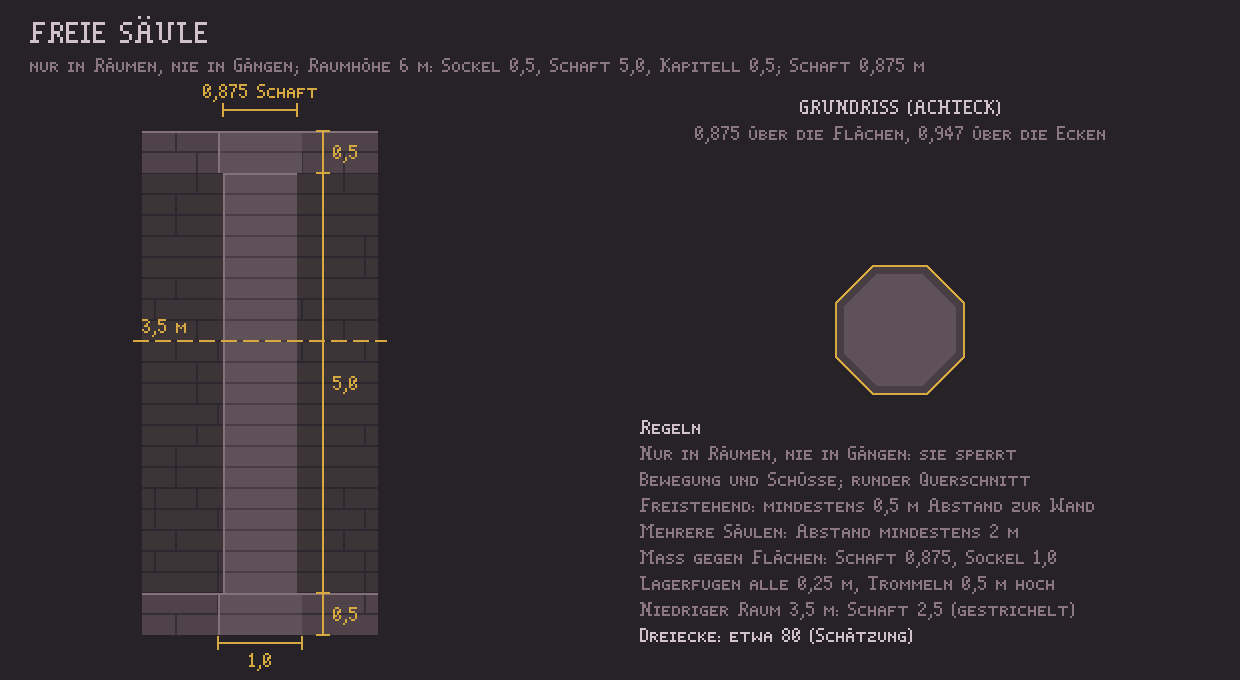
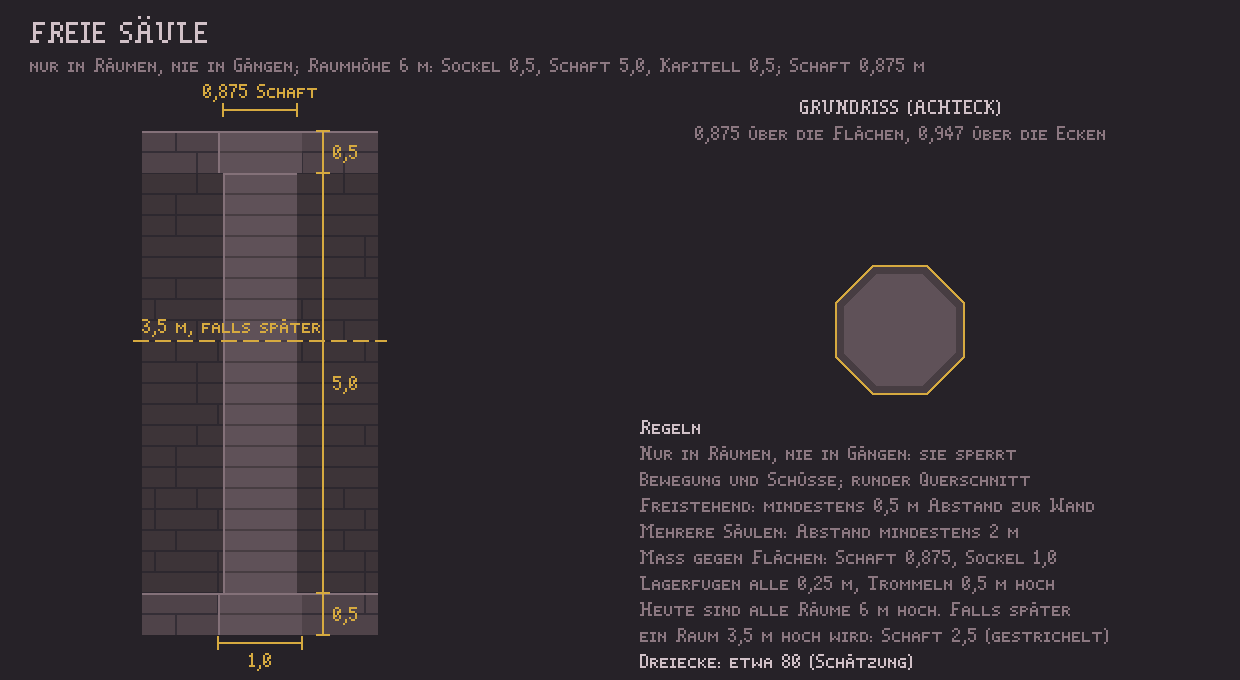
docs: Saeulen-Skizze und Dreieckszahl des Wandpfeilers angeglichen (#541)
Skizze der Saeule: 3,5-m-Raum nur noch "falls spaeter", wie im Text.
Wandpfeiler: gemessene 196 (Gang) und 238 (Raum) Dreiecke statt der
Schaetzung 40, weil die Flaechen fuer die Welt-Textur an den
Metergrenzen geteilt sind. Skizzen bitgleich neu erzeugt.

Changed region(s): [[0.521, 0.8647, 0.8887, 0.9882], [0.1532, 0.4632, 0.2758, 0.4941]]

diff --git a/tools/design/formenlehre_gotik.py b/tools/design/formenlehre_gotik.py
@@ -453,7 +453,7 @@ def wandpfeiler():
                         "Oben im Abschluss, Fuß im Sockel",
                         "#Im Gang (2 m breit): Sockel und Kapitell", "höchstens 1/8 m tief je Seite, lichte Breite", "bleibt 1,75 m (Türöffnung)",
                         "#Trägt der Pfeiler einen Bogen: Kapitell-", "Oberkante = Kämpfer des Bogens (Deckenbogen)",
-                        "#Dreiecke: etwa 40 (Schätzung)"], 24)
+                        "#Dreiecke: 196 (Gang), 238 (Raum)", "etwa 40 Flächen, an den Metergrenzen geteilt"], 24)
     return c
 
 
@@ -464,7 +464,7 @@ def saeule():
     for y0, y1, hw in ((0, 0.5, 0.5), (0.5, 5.5, 0.4375), (5.5, 6.0, 0.5)):
         stone_block(c, t, -hw, hw, y0, y1)
     c.dashed(t.x(-1.5), t.y(3.5), t.x(1.5), t.y(3.5), MASS, 2, 14, 8)
-    c.text(t.x(-1.4), t.y(3.5) - 22, "3,5 m", MASS, 2)
+    c.text(t.x(-1.4), t.y(3.5) - 22, "3,5 m, falls später", MASS, 2)
     dim_h(c, t, -0.4375, 0.4375, 6.25, "0,875 Schaft")
     dim_h(c, t, -0.5, 0.5, -0.1, "1,0", below=True)
     dim_v(c, t, 0.75, 0, 0.5, "0,5", right=True)
@@ -482,7 +482,8 @@ def saeule():
     notes(c, 640, 420, ["#Regeln", "Nur in Räumen, nie in Gängen: sie sperrt", "Bewegung und Schüsse; runder Querschnitt",
                         "Freistehend: mindestens 0,5 m Abstand zur Wand", "Mehrere Säulen: Abstand mindestens 2 m",
                         "Maß gegen Flächen: Schaft 0,875, Sockel 1,0", "Lagerfugen alle 0,25 m, Trommeln 0,5 m hoch",
-                        "Niedriger Raum 3,5 m: Schaft 2,5 (gestrichelt)",
+                        "Heute sind alle Räume 6 m hoch. Falls später",
+                        "ein Raum 3,5 m hoch wird: Schaft 2,5 (gestrichelt)",
                         "#Dreiecke: etwa 80 (Schätzung)"], 26)
     return c
 
